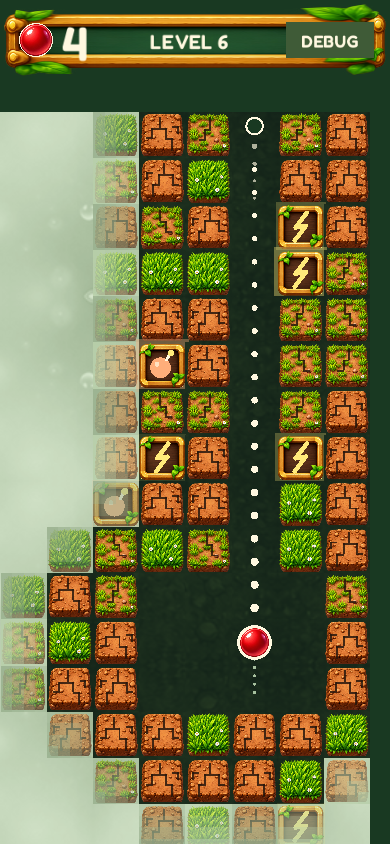
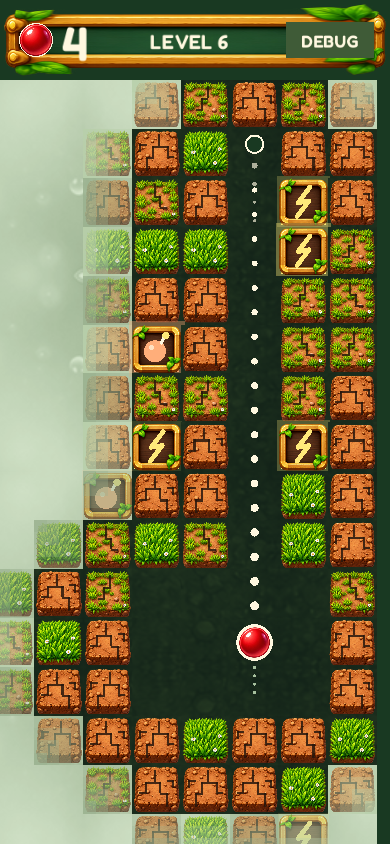
T36: Fit the whole block the aim line ends on, not only its contact point

diff --git a/games/tapdemo/include/tapdemo/touch.hpp b/games/tapdemo/include/tapdemo/touch.hpp
@@ -244,14 +244,14 @@ public:
         const float t=aimZoom->elapsed/zoomSeconds, k=t*t*(3-2*t);
         base=aimZoom->prior.zoom+(aimFit->cap-aimZoom->prior.zoom)*k;
       }
-      // Zoom out about the held ball just far enough to keep the line's first contact (and its stub) in view;
+      // Zoom out about the held ball just far enough to keep the line's first contact, the whole block it meets (a cell and a ball radius around the contact) and its stub in view;
       // an invalid path leaves the fit where it is.
       if(std::hypot(aim->pull.x,aim->pull.y)>=Model::minPull) {
         const AimPath path=model.aimPath(aim->anchor,aim->pull);
         if(path.valid) {
           const float stub=fitStubCells*Model::cell;
           const yy::Vec2 end{path.contact.x+path.after.x*stub,path.contact.y+path.after.y*stub};
-          const float need=std::min(zoomToFit(aimFit->screen,aim->anchor,path.contact,Model::cell,aimFit->cap),
+          const float need=std::min(zoomToFit(aimFit->screen,aim->anchor,path.contact,Model::cell+Model::ballRadius,aimFit->cap),
                                     zoomToFit(aimFit->screen,aim->anchor,end,0,aimFit->cap));
           aimFit->zoom+=(need-aimFit->zoom)*(1-std::exp(-fitRate*dt));
         }

diff --git a/tests/core_tests.cpp b/tests/core_tests.cpp
@@ -1105,6 +1105,13 @@ static void shotCameraChecks() {
     f.move(1,{at.x-60,at.y});
     for(int i=0; i<90; ++i) { f.update(1.0f/60); check(f.camera.zoom<=cap+1e-5f,"never above the zoom the aim started at"); }
     check(f.camera.zoom>farZoom+.01f,"a near target eases back in");
+    {
+      const auto hit=far.aimPath(f.aim->anchor,f.aim->pull); check(hit.valid,"the near aim has a path");
+      const float dx=hit.contact.x-hit.start.x, dy=hit.contact.y-hit.start.y, run=std::hypot(dx,dy);
+      const yy::Vec2 probe{hit.contact.x+dx/run*(Model::ballRadius+2),hit.contact.y+dy/run*(Model::ballRadius+2)};
+      const float x0=std::floor(probe.x/Model::cell)*Model::cell, y0=std::floor(probe.y/Model::cell)*Model::cell;
+      check(inView({x0,y0}) && inView({x0+Model::cell,y0+Model::cell}),"the whole block the line ends on is on screen");
+    }
     // A short pull leaves the zoom where it is.
     f.move(1,{at.x,at.y+60}); for(int i=0; i<90; ++i) f.update(1.0f/60);
     const float again=f.camera.zoom;

diff --git a/games/tapdemo/src/game.cpp b/games/tapdemo/src/game.cpp
@@ -701,7 +701,8 @@ class TapGame final: public yy::Game {
     if(std::strcmp(scene,"aim-brick")==0 || std::strcmp(scene,"aim-wall")==0 || std::strcmp(scene,"aim-far")==0 || std::strcmp(scene,"lastball")==0) {
       // A held aim straight up from the pocket: onto the brick above it, or (aim-wall) up an emptied column to the wall.
       if(std::strcmp(scene,"aim-wall")==0 || std::strcmp(scene,"aim-far")==0) {
-        for(int row=0; row<pocket.row; ++row) model.bricks[row*model.columns+column]=0;
+        // aim-far leaves the top brick of the column, so the block the line ends on is the one to see.
+        for(int row=std::strcmp(scene,"aim-far")==0 ? 1 : 0; row<pocket.row; ++row) model.bricks[row*model.columns+column]=0;
         model.refreshFog(); syncBricks();
       }
       if(std::strcmp(scene,"lastball")==0) model.ballsLeft=1;

diff --git a/docs/decisions/design.md b/docs/decisions/design.md
@@ -369,9 +369,9 @@ captures in `docs/figures/shot-camera/`.
 
 **Status:** active
 
-**What happened.** Yotam said: "When we are aiming and zoomed in adjust the camera to also fit the aimed at brick while aiming". T36 reads this as any held aim while zoomed in: the aim zoom, or a zoom the player pinched in to.
+**What happened.** Yotam said: "When we are aiming and zoomed in adjust the camera to also fit the aimed at brick while aiming", then "We need to see the block we are going to hit". T36 reads this as any held aim while zoomed in: the aim zoom, or a zoom the player pinched in to.
 
-**Decision.** While a ball is held, each frame takes the aim line's first contact (`Model::aimPath`) and the end of its stub. If either, with a cell of margin on the contact, falls outside the view, the camera eases (rate 8 per second) to the largest zoom about the held ball's screen point that brings them in. It never goes below the whole-grid fit or above the zoom the aim started at, and zooming back in stops at that zoom. A pull under the minimum or an invalid path leaves the zoom where it is. A fogged brick is fitted like a wall. The ball stays under the finger. The hum follows the finger's screen distance, so zooming out does not change it. Release and cancel ease back to the view held before the aim, whether the aim zoom or the fit changed it.
+**Decision.** While a ball is held, each frame takes the aim line's first contact (`Model::aimPath`) and the end of its stub. If either, with a cell and a ball radius around the contact (so the whole block it meets shows), falls outside the view, the camera eases (rate 8 per second) to the largest zoom about the held ball's screen point that brings them in. It never goes below the whole-grid fit or above the zoom the aim started at, and zooming back in stops at that zoom. A pull under the minimum or an invalid path leaves the zoom where it is. A fogged brick is fitted like a wall. The ball stays under the finger. The hum follows the finger's screen distance, so zooming out does not change it. Release and cancel ease back to the view held before the aim, whether the aim zoom or the fit changed it.
 
 **Why.** The line's end, the thing the player aims at, no longer runs off screen on a zoomed-in field.
 

diff --git a/docs/roadmap.md b/docs/roadmap.md
@@ -618,8 +618,8 @@ requested or measured.
 **Status:** active
 
 Holding a ball on a zoomed-in field now zooms out about the ball, eased, just
-far enough that the aim line's first contact (a brick or wall) and the start
-of its stub are on screen with a cell of margin. Swinging back to something
+far enough that the aim line's end, the whole block it meets and the start
+of its stub are on screen (a cell and a ball radius around the contact). Swinging back to something
 close eases back in, never past the zoom the aim started at. The ball stays
 under the finger; release and cancel return to the view from before.
 
@@ -630,8 +630,8 @@ zoom never above the start, easing back in for a near target, a short pull,
 the hum and the restore. The `aim-far` scene on level 6 was captured before
 and after at 390×844 with `python studio/fe_manager.py gpu -- python
 tests/capture_aimline.py --only aim-far --tag before|after --frames 60
---level 6`: before, the line leaves the top of the board with no end mark;
-after, the end ring sits inside the board under a margin and the ball is still
-on screen. Device performance is not applicable.
+--level 6`: before, the line's end ring sits on the top edge and the brick it hits is
+cut off; after, the ring and the whole top brick are on screen and the ball is
+still in view. Device performance is not applicable.
 
 **Open:** owner acceptance. Fit and aim-zoom constants are first values.
